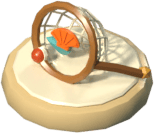
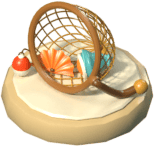
Add refined region tool slices, bag samples, comparison sheets and result notes

diff --git a/art-src/board-ui/c-popups/src/round2/tools_compare.py b/art-src/board-ui/c-popups/src/round2/tools_compare.py
@@ -1,30 +1,64 @@
-# 三件地区道具 旧版(r2 v1) vs 新版(v2)：每件 1x / 放大 2.5x / 灰度。python3 tools_compare.py <c-popups>
-import sys, os
+# 三件地区道具对比图。python3 tools_compare.py <c-popups>
+#   r2/region_tools_compare.png         每件：旧版（raw_v1）↔ 新版（raw），1x / 放大 2.5x / 灰度
+#   r2/region_tools_vs_board.png        和已定稿的星光 / 风语铃 / 潮汐瓶（b-board/slices）并排：1x 一排（192 px）+ 2.5x 三排
+import sys, os, subprocess
 HERE=os.path.dirname(os.path.abspath(__file__)); sys.path.insert(0,os.path.dirname(HERE))
-CP=os.path.abspath(sys.argv[1] if len(sys.argv)>1 else os.path.join(HERE,'../..'))
+CP=os.path.abspath(sys.argv[1] if len(sys.argv)>1 else os.path.join(HERE,'../..')); sys.argv=[sys.argv[0],CP]
 from ui_kit import font, focus_grade
 from PIL import Image, ImageDraw, ImageOps
 BG=(246,240,226); INK=(70,52,34); TILE=(232,224,206)
-T=[('tool_tidenet','潮汐网','旧：木圈 + 平网，像球拍','新：短柄小抄网侧躺；网兜镂空下垂，兜里扇贝 + 海螺，网圈系红白浮漂'),
-   ('tool_sunseed','日光籽','旧：金色蛋形 + 浮空光点','新：深色葵花籽（白纵纹）插在土堆里冒芽，背后立一枚小太阳'),
-   ('tool_starshears','星剪','旧：刃短、指环小，挤成一团','新：张开成 X 的剪刀，两片长刃 + 刃口亮线，两只大金指环，轴心金星螺丝')]
-Z=2.5; cw=192+24+round(192*Z)+24+round(192*Z)*0+192+24
-W=40+cw*2+60; Hrow=round(192*Z)+120
+BOARD=os.path.join(CP,'..','b-board','slices')
+T=[('tool_tidenet','潮汐网','旧：圈、柄、海螺、浮漂都是低面数管 / 球；12 段粗线网兜像鸟笼；扇贝是一块扁菱','新：40 段网圈；18 股菱形细网眼 + 交点小结；放射棱扇贝；螺旋海螺；红白圆浮漂 + 细绳；倒角柄、铁箍、圆把手'),
+   ('tool_sunseed','日光籽','旧：10 段籽，三根粗白棍；子叶是扁菱柱；12 块胖三角光芒','新：24 段泪滴籽，5 道白纹贴壳面收细；带中脉的子叶；圆润太阳 + 金边 + 16 根等长细光芒；小土堆'),
+   ('tool_starshears','星剪','旧：扁菱柱刃，没有倒角；24 边管子指环，近看是多边形','新：楔形刃（厚刃背 + 磨边斜面）+ 贴刃亮线；40 段圆环指环；金星螺丝坐在垫圈上；小星光用金环细链挂刃尖')]
+def tile(img,col=TILE):
+    t=Image.new('RGBA',img.size,col+(255,)); t.alpha_composite(img); return t.convert('RGB')
+def save_q(im,p,q='80-95'):
+    im.save(p,optimize=True); subprocess.run(['pngquant','--force','--skip-if-larger','--quality',q,'--output',p,p]); print(p,im.size,os.path.getsize(p))
+def load(dirn,n): return focus_grade(Image.open(os.path.join(HERE,dirn,n+'.png')).convert('RGBA'))
+
+# ---------- 1. 旧 ↔ 新 ----------
+Z=2.5; cw=192+24+round(192*Z)+24+192+24
+W=40+cw*2+60; Hrow=round(192*Z)+150
 out=Image.new('RGB',(W,90+Hrow*3),BG); d=ImageDraw.Draw(out)
-d.text((40,24),'三件地区道具：旧版（r2 第一版）↔ 新版　每组：1x（192 px，行囊 / 道具栏实际尺寸）· 放大 2.5x · 灰度',font=font(28),fill=INK)
-for col,(lab,dirn) in enumerate((('旧版','raw_v1'),('新版','raw'))):
+d.text((40,24),'三件地区道具：旧版 ↔ 新版　每组：1x（192 px，行囊 / 道具栏实际尺寸）· 放大 2.5x · 灰度（看轮廓和明暗）',font=font(28),fill=INK)
+for col,(lab,dirn) in enumerate((('旧版（raw_v1）','raw_v1'),('新版（raw）','raw'))):
     x0=40+col*(cw+60)
     d.text((x0,64),lab,font=font(26),fill=(150,60,40) if col==0 else (38,98,104))
     for r,(n,cn,o,nw) in enumerate(T):
-        y0=100+r*Hrow
-        im=focus_grade(Image.open(os.path.join(HERE,dirn,n+'.png')).convert('RGBA'))
-        def tile(img):
-            t=Image.new('RGBA',img.size,TILE+(255,)); t.alpha_composite(img); return t.convert('RGB')
+        y0=100+r*Hrow; im=load(dirn,n)
         out.paste(tile(im),(x0,y0+round(192*Z)-192))
         big=im.resize((round(192*Z),)*2,Image.LANCZOS); out.paste(tile(big),(x0+216,y0))
         g=ImageOps.grayscale(tile(im)).convert('RGB'); out.paste(g,(x0+216+round(192*Z)+24,y0+round(192*Z)-192))
         d.text((x0,y0+round(192*Z)+14),cn,font=font(26),fill=INK)
-        d.text((x0+80,y0+round(192*Z)+18),o if col==0 else nw,font=font(20,False),fill=INK)
-p=os.path.join(CP,'r2','region_tools_compare.png'); out.save(p,optimize=True)
-import subprocess; subprocess.run(['pngquant','--force','--skip-if-larger','--quality','80-95','--output',p,p])
-print(out.size,os.path.getsize(p))
+        txt=o if col==0 else nw
+        for k,line in enumerate([txt[i:i+32] for i in range(0,len(txt),32)]): d.text((x0+100,y0+round(192*Z)+18+k*26),line,font=font(20,False),fill=INK)
+save_q(out,os.path.join(CP,'r2','region_tools_compare.png'))
+
+# ---------- 2. 和棋盘道具并排 ----------
+REF=[('tool_starlight','星光'),('tool_windbell','风语铃'),('tool_tidebottle','潮汐瓶')]
+def ref(n): return Image.open(os.path.join(BOARD,n+'.png')).convert('RGBA')
+NEW=[(n,cn) for n,cn,_,_ in T]
+Z=2.5; S1=192; G=16; BIG=round(192*Z)
+W=40+9*(S1+G)+60+20; W=max(W,40+3*(BIG+G)+40)
+H1=70+S1+90; H2=60+3*(BIG+70)
+out=Image.new('RGB',(W,H1+H2+30),BG); d=ImageDraw.Draw(out)
+d.text((40,20),'对比 · 已定稿的棋盘道具（星光 / 风语铃 / 潮汐瓶）与三件地区道具　　同机位、同灯光、同调色（focus_grade）',font=font(28),fill=INK)
+d.text((40,62),'1x · 192 px（道具栏实际尺寸）',font=font(24),fill=INK)
+groups=[('已定稿（b-board）',[(ref(n),cn) for n,cn in REF],(80,110,80)),('旧版（本轮前）',[(load('raw_v1',n),cn) for n,cn in NEW],(150,60,40)),('新版（本轮）',[(load('raw',n),cn) for n,cn in NEW],(38,98,104))]
+x=40
+for gl,items,colr in groups:
+    d.text((x,100),gl,font=font(22),fill=colr)
+    for im,cn in items:
+        out.paste(tile(im),(x,130)); d.text((x+S1/2,130+S1+16),cn,font=font(22),fill=INK,anchor='mt'); x+=S1+G
+    x+=20
+y=H1+30
+d.text((40,y-6),'2.5x · 480 px',font=font(24),fill=INK); y+=34
+for gl,items,colr in groups:
+    d.text((40,y),gl,font=font(22),fill=colr); y+=30
+    x=40
+    for im,cn in items:
+        big=im.resize((BIG,BIG),Image.LANCZOS); out.paste(tile(big),(x,y)); d.text((x+BIG/2,y+BIG+8),cn,font=font(22),fill=INK,anchor='mt'); x+=BIG+G
+    y+=BIG+44
+out=out.crop((0,0,W,y))
+save_q(out,os.path.join(CP,'r2','region_tools_vs_board.png'))

diff --git a/art-src/board-ui/c-popups/src/round2/region_tools.py b/art-src/board-ui/c-popups/src/round2/region_tools.py
@@ -1,0 +1,51 @@
+# 三件地区道具（潮汐网 / 日光籽 / 星剪）v3 的后处理，只动这三件：
+#   1. 切图 → r2/slices/tool_*.png（pngquant 70-92，和 slices2.py 同一做法），回写 sizes.json 里这三行并重算合计
+#   2. 行囊样张 r2/bag_island.png、r2/bag_level.png（compose2.bag，用新图标）
+#   3. r2/compare/bag_tools_old_vs_new.jpg：旧图标 ↔ 新图标的行囊样张；再调 tools_compare.py 出两张道具对比图
+# 用法（先用 build_popups.py 把 tool_tidenet,tool_sunseed,tool_starshears 渲到 raw/）：
+#   ISLAND_IMG=<岛截图> python3 region_tools.py <c-popups>
+import sys, os, json, subprocess
+HERE=os.path.dirname(os.path.abspath(__file__)); sys.path.insert(0,os.path.dirname(HERE)); sys.path.insert(0,HERE)
+CP=os.path.abspath(sys.argv[1] if len(sys.argv)>1 else os.path.join(HERE,'../..')); sys.argv=[sys.argv[0],CP]
+from ui_kit import *
+import compose2 as C2
+import compose as C
+R2O=os.path.join(CP,'r2'); SL=os.path.join(R2O,'slices'); CMP=os.path.join(R2O,'compare'); os.makedirs(CMP,exist_ok=True)
+TOOLS3=(('tidenet','潮汐网'),('sunseed','日光籽'),('starshears','星剪'))
+
+# ---- 1. 切图
+js=json.load(open(os.path.join(SL,'sizes.json'))); rows={r['file']:r for r in js['rows']}
+for t,cn in TOOLS3:
+    im=C2.A2('tool_'+t); p=os.path.join(SL,'tool_%s.png'%t); im.save(p)
+    subprocess.run(['pngquant','--force','--skip-if-larger','--quality','70-92','--speed','1','--strip','--output',p,p],check=False)
+    r=rows['tool_%s.png'%t]; r.update(w=im.width,h=im.height,bytes=os.path.getsize(p),note=cn+'：地区道具 v3（精细版；和 (b) tool_* 同机位同尺寸，道具栏也能直接用；旧版在 src/round2/raw_v1/）')
+    print(p,im.size,r['bytes'])
+tot=sum(r['bytes'] for r in js['rows'] if not r['group'].startswith('精简')); groups={}
+for r in js['rows']: groups[r['group']]=groups.get(r['group'],0)+r['bytes']
+js['groups']=groups; js['total']=tot
+json.dump(js,open(os.path.join(SL,'sizes.json'),'w'),ensure_ascii=False,indent=1); print(groups,tot)
+
+# ---- 2. 行囊样张（新图标）
+C.OUT=R2O
+C2.bag('island'); C2.bag('level')
+
+# ---- 3. 行囊样张对比：旧图标 / 新图标 / 新图标（三件都有货，示意）
+def bags(old=False,stock=None):
+    C.OUT=CMP; saved=dict(C2._C2); savedT=list(C2.TOOLS)
+    if old:
+        for t,_ in TOOLS3:
+            im=crop(Image.open(os.path.join(HERE,'raw_v1','tool_%s.png'%t)).convert('RGBA')); C2._C2['tool_'+t]=focus_grade(im)
+    if stock: C2.TOOLS[:]=[(n,l,stock if n in ('tool_tidenet','tool_sunseed','tool_starshears') else c) for n,l,c in C2.TOOLS]
+    res={}
+    for where in ('island','level'):
+        C2.bag(where); res[where]=Image.open(os.path.join(CMP,'bag_%s.png'%where)).convert('RGB')
+    C2._C2.clear(); C2._C2.update(saved); C2.TOOLS[:]=savedT; return res
+old=bags(True); new=bags(False); stk=bags(False,1)
+for f in ('bag_island.png','bag_level.png'): os.remove(os.path.join(CMP,f))
+for where in ('island','level'):
+    cols=[('旧图标（本轮前）',old[where]),('新图标',new[where]),('新图标 · 三件有货（示意）',stk[where])]
+    h=1180; ims=[im.resize((round(im.width*h/im.height),h),Image.LANCZOS) for _,im in cols]
+    out=Image.new('RGB',(sum(i.width for i in ims)+30*(len(ims)+1),h+90),(246,240,226)); d=ImageDraw.Draw(out); x=30
+    for (lab,_),im in zip(cols,ims): d.text((x,24),'行囊 · %s　%s'%('岛上' if where=='island' else '关卡内',lab),font=font(24),fill=(70,52,34)); out.paste(im,(x,70)); x+=im.width+30
+    p=os.path.join(CMP,'bag_tools_old_vs_new_%s.jpg'%where); out.save(p,quality=86,optimize=True); print(p,os.path.getsize(p))
+subprocess.run([sys.executable,os.path.join(HERE,'tools_compare.py'),CP],check=True)

diff --git a/art-src/board-ui/c-popups/r2/REGION-TOOLS-RESULT.md b/art-src/board-ui/c-popups/r2/REGION-TOOLS-RESULT.md
@@ -1,0 +1,73 @@
+# 地区奖励道具精修结果（潮汐网 / 日光籽 / 星剪）
+
+范围：只重做 `tool_tidenet`、`tool_sunseed`、`tool_starshears` 三个模型并重渲。造型保持产品已确认的版本，只加细节。
+未改动：运行时、`creator-build-project/tools-original.png`、道具栏代码、角色/动画/坐裙/场景/其他道具/棋子、潮汐锚与棱镜位移。
+托盘、相机、聚焦光和调色板（`M_env_palette` / `finish()`）沿用原有设置。
+
+## 改了哪些细节
+
+### 潮汐网 `tool_tidenet`
+- 网圈改为圆整的 40 段圆环截面，不再是折线圈。
+- 网袋由 18 根经线加两个方向的螺旋纬线编织而成，网眼更细，整体向右后方自然下垂。网线在世界坐标里夹在托盘面之上，不穿托盘。
+- 网袋里有扇贝和海螺：扇贝是珊瑚色，带放射状肋纹和贝耳；海螺是青绿色，带螺旋纹和开口。
+- 红白浮子改为蛋形，用一根细绳系在网圈上。去掉了会像精灵球的赤道带。
+- 短柄是深色木头，带倒角，柄尾有圆形握把。
+- 网口朝向镜头，没有做成平面球拍的样子。
+
+### 日光籽 `tool_sunseed`
+- 种子是更顺滑的水滴形，白色纵纹贴着表面走向，尖端朝下插在小土堆里。
+- 土堆有颗粒起伏。
+- 弯曲的嫩芽加两片子叶。子叶有中脉，并略微上翘。
+- 身后的金色小太阳，圆盘更圆，三角光芒更细、长度一致。
+
+### 星剪 `tool_starshears`
+- 两片长刀刃呈 X 形张开，刀刃有厚度和斜面，亮刃线落在刃面上。
+- 两个金色大指环向外撇开，是正圆环。
+- 金色星形螺丝坐在枢轴上。
+- 一枚小星星挂饰挂在一片刀尖上。
+- 通过 `rest()` 让剪刀落在托盘上，没有悬空，也没有穿插。
+
+## 切图路径与字节数
+
+切图宽度仍为 154 px，体积在 10–12 KB 量级。
+
+| 道具 | 旧切图（git HEAD） | 新切图 | 旧 | 新 |
+|---|---|---|---|---|
+| 潮汐网 | `r2/slices/tool_tidenet.png` | 同路径 | 10595 B (154×133) | 11498 B (154×146) |
+| 日光籽 | `r2/slices/tool_sunseed.png` | 同路径 | 11443 B (154×190) | 11314 B (154×187) |
+| 星剪 | `r2/slices/tool_starshears.png` | 同路径 | 10203 B (154×170) | 10661 B (154×179) |
+
+`r2/slices/sizes.json`：行囊分组 39637 → 40869 B，总计 196786 → 198018 B。
+
+原始 192×192 渲染图：
+
+| 道具 | 旧 `src/round2/raw_v1/` | 新 `src/round2/raw/` |
+|---|---|---|
+| 潮汐网 | 42205 B | 48274 B |
+| 日光籽 | 49206 B | 48390 B |
+| 星剪 | 40367 B | 43209 B |
+
+旧版原图保存在 `src/round2/raw_v1/`，没有被覆盖。
+
+## 对比图
+
+- 三件新道具与星光/风语铃/潮汐瓶并排：`art-src/board-ui/c-popups/r2/region_tools_vs_board.png`
+- 每件道具新旧对比，含 1x 与 2.5x 以及灰度：`art-src/board-ui/c-popups/r2/region_tools_compare.png`
+- 行囊样图：`r2/bag_island.png`、`r2/bag_level.png`
+- 行囊新旧对比：`r2/compare/bag_tools_old_vs_new_island.jpg`、`r2/compare/bag_tools_old_vs_new_level.jpg`
+
+## 备注
+
+- `bag_island` 的背景用 `b-board/slices/bg_island_board.jpg` 代替，因为原 C0 岛屿截图不在仓库里；`bag_level` 用已提交的 `board_final_tools.png`。
+- `src/popup_props.blend` 没有重新导出，只改了脚本和渲染图。
+- `sheets2.py` 里 T9 基线那几列依赖仓库外的素材，无法复现，所以另做了新旧行囊对比。
+
+## 复现
+
+```
+blender -b --factory-startup -P art-src/board-ui/c-popups/src/build_popups.py -- /tmp/cpop 64
+```
+
+只渲这三件时，按 HANDOFF §4 传入逗号列表 `tool_tidenet,tool_sunseed,tool_starshears`。
+然后依次运行 `src/round2/region_tools.py`（调色、裁切、pngquant、更新 `sizes.json`、行囊样图）和 `src/round2/tools_compare.py`（对比图）。
+行囊样图的岛屿背景用环境变量 `ISLAND_IMG` 指定。
